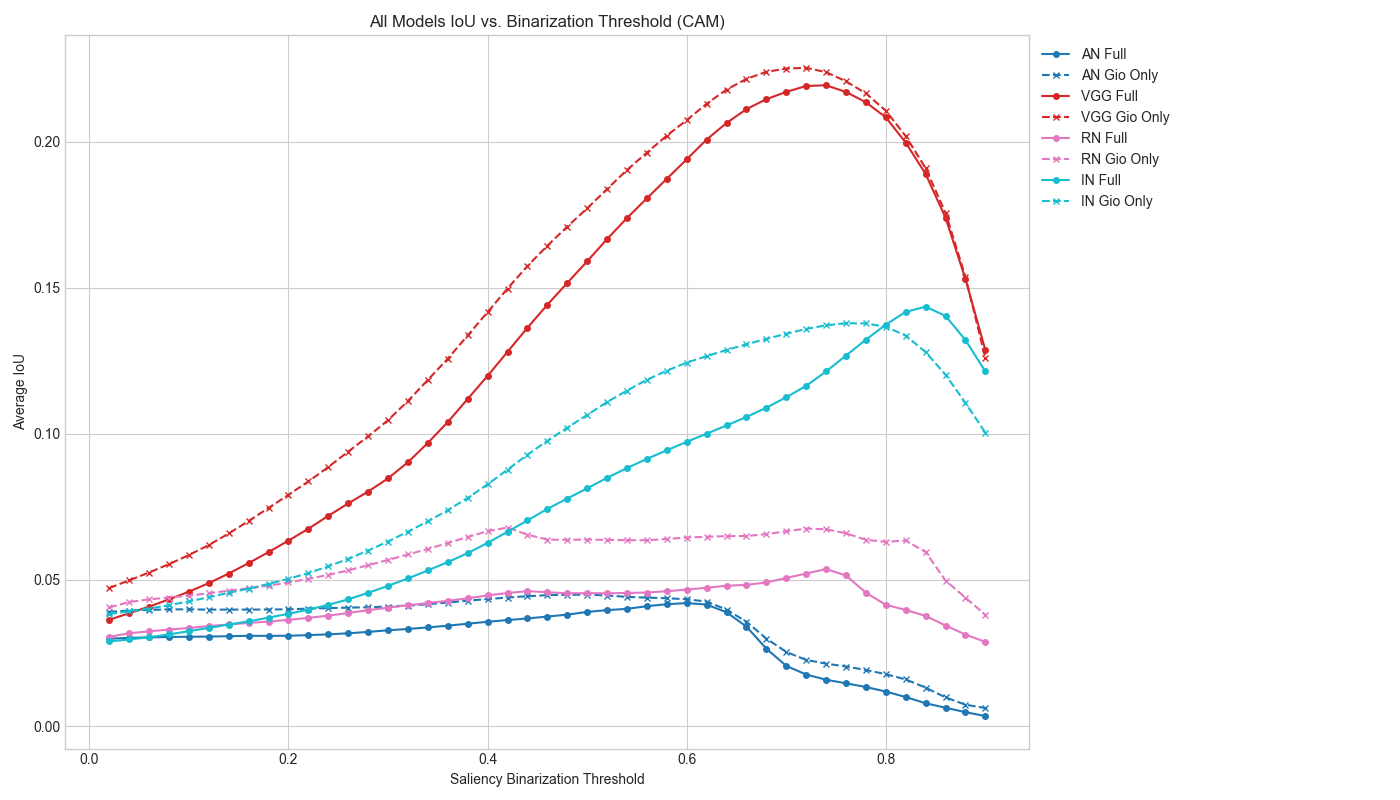
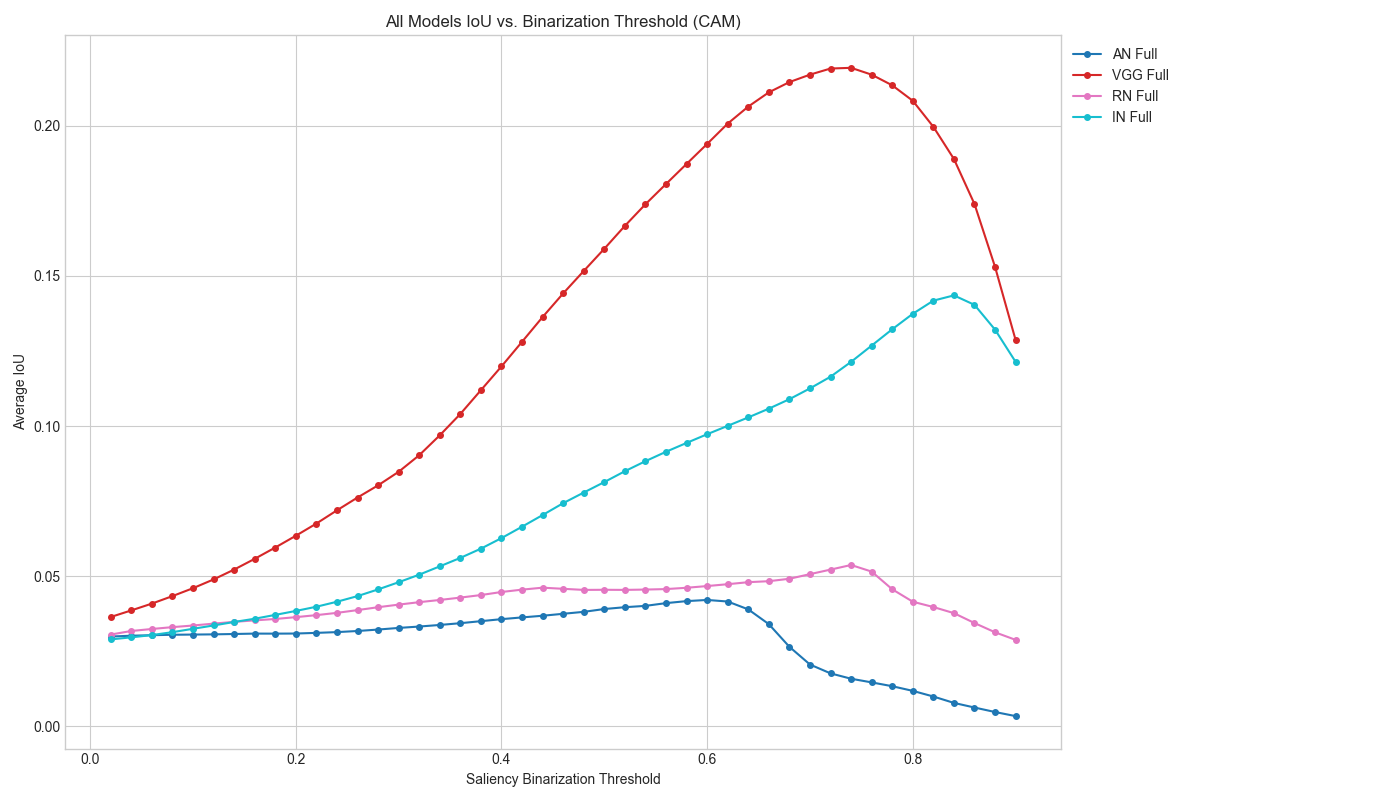
remove gio from threshold

diff --git a/medimg-saliency-benchmark/threshold.py b/medimg-saliency-benchmark/threshold.py
@@ -26,7 +26,6 @@ MODEL_CONFIGS = {
     "rn": "rn_True_True_0.05.ckpt",   
     "in": "in_True_True_0.01.ckpt"      
 }
-GIOVANNI_NAME_PATTERN = "giovanni p" 
 
 def get_expert_consensus_masks_for_specific_annotators(
     group_name,
@@ -110,21 +109,10 @@ def main():
     print(f"\nTotal non-test annotations loaded: {len(annotations_non_test_list)}")
 
     annotations_full_expert = annotations_non_test_list
-    initial_gio_annotations = [r for r in annotations_non_test_list if GIOVANNI_NAME_PATTERN in r.get('annotator_name', '').lower()]
-    if not initial_gio_annotations:
-        print(f"CRITICAL: No annotator names matched '{GIOVANNI_NAME_PATTERN}'. 'Giovanni Only' data will be empty.")
-    else:
-        print(f"Found {len(initial_gio_annotations)} raw annotations for Giovanni ('{GIOVANNI_NAME_PATTERN}').")
-    annotations_giovanni_only = initial_gio_annotations
 
     # 2. Get Expert Consensus Masks (once for all models)
     print("\nGenerating expert consensus masks (once for all models)...")
     consensus_masks_full = get_expert_consensus_masks_for_specific_annotators("Full Expert", annotations_full_expert)
-    consensus_masks_gio = {}
-    if annotations_giovanni_only:
-        consensus_masks_gio = get_expert_consensus_masks_for_specific_annotators("Giovanni Only", annotations_giovanni_only)
-    else:
-        print("  Skipping Giovanni Only consensus mask generation as no raw annotations were found.")
 
     all_evaluation_image_names = sorted(list(set(r['image_name'] for r in annotations_non_test_list)))
     print(f"\nWill attempt evaluation for up to {len(all_evaluation_image_names)} unique images from non-test annotations.")
@@ -173,9 +161,7 @@ def main():
 
         # Initialize results storage for this model
         iou_results_full_model = {t: [] for t in thresholds_arr}
-        iou_results_gio_model = {t: [] for t in thresholds_arr}
         images_contributing_full_model = set()
-        images_contributing_gio_model = set()
 
         print(f"  Starting IoU calculation for {model_key.upper()} across {len(all_evaluation_image_names)} images...")
         for image_filename in all_evaluation_image_names:
@@ -202,26 +188,17 @@ def main():
                 for t in thresholds_arr:
                     bin_map = utils.binarize_saliency_map(saliency_map_np, threshold_value=t)
                     iou_results_full_model[t].append(utils.calculate_iou(bin_map, consensus_masks_full[image_filename]))
-            
-            if image_filename in consensus_masks_gio:
-                images_contributing_gio_model.add(image_filename)
-                for t in thresholds_arr:
-                    bin_map = utils.binarize_saliency_map(saliency_map_np, threshold_value=t)
-                    iou_results_gio_model[t].append(utils.calculate_iou(bin_map, consensus_masks_gio[image_filename]))
         
         if hasattr(saliency_tool, 'remove_hook') and callable(saliency_tool.remove_hook): saliency_tool.remove_hook()
         if hasattr(saliency_tool, 'remove_hooks') and callable(saliency_tool.remove_hooks): saliency_tool.remove_hooks()
 
         # Aggregate and store results for this model
         avg_iou_full_model = [np.mean(iou_results_full_model[t]) if iou_results_full_model[t] else np.nan for t in thresholds_arr]
-        avg_iou_gio_model = [np.mean(iou_results_gio_model[t]) if iou_results_gio_model[t] else np.nan for t in thresholds_arr]
         
         n_full = len(images_contributing_full_model)
-        n_gio = len(images_contributing_gio_model)
         n_values_for_legend[(model_key, 'Full')] = n_full
-        n_values_for_legend[(model_key, 'Gio')] = n_gio
 
-        print(f"  Finished IoU for {model_key.upper()}: Full (n={n_full}), Gio (n={n_gio})")
+        print(f"  Finished IoU for {model_key.upper()}: Full (n={n_full})")
 
         if n_full > 0:
             col_name_full = f"{model_key.upper()}_Full (n={n_full})"
@@ -231,17 +208,6 @@ def main():
                 best_thresh = thresholds_arr[best_idx]
                 max_iou = avg_iou_full_model[best_idx]
                 best_threshold_details.append(f"  {model_key.upper()} Full: Best Thr={best_thresh:.4f}, Max IoU={max_iou:.4f} (n={n_full})")
-
-
-        if n_gio > 0:
-            col_name_gio = f"{model_key.upper()}_Gio (n={n_gio})"
-            all_results_data[col_name_gio] = avg_iou_gio_model
-            if not pd.Series(avg_iou_gio_model).isnull().all():
-                best_idx = pd.Series(avg_iou_gio_model).idxmax()
-                best_thresh = thresholds_arr[best_idx]
-                max_iou = avg_iou_gio_model[best_idx]
-                best_threshold_details.append(f"  {model_key.upper()} Gio: Best Thr={best_thresh:.4f}, Max IoU={max_iou:.4f} (n={n_gio})")
-
 
     # 4. Create final DataFrame and Save CSV
     results_df = pd.DataFrame(all_results_data)
@@ -267,7 +233,7 @@ def main():
     plt.figure(figsize=(14, 8)) # Wider for more lines
     
     # Define a list of distinct colors and linestyles
-    # Cycle through colors for models, use solid/dashed for Full/Gio
+    # Cycle through colors for models
     model_colors = plt.cm.get_cmap('tab10', len(MODEL_CONFIGS)) 
 
     plotted_anything = False
@@ -278,13 +244,6 @@ def main():
         if n_full > 0 and col_full in results_df.columns and not results_df[col_full].isnull().all():
             plt.plot(results_df['Saliency Binarization Threshold'], results_df[col_full], 
                      marker='o', markersize=4, linestyle='-', label=f"{model_key.upper()} Full", color=model_colors(i))
-            plotted_anything = True
-
-        n_gio = n_values_for_legend.get((model_key, 'Gio'), 0)
-        col_gio = f"{model_key.upper()}_Gio (n={n_gio})"
-        if n_gio > 0 and col_gio in results_df.columns and not results_df[col_gio].isnull().all():
-            plt.plot(results_df['Saliency Binarization Threshold'], results_df[col_gio], 
-                     marker='x', markersize=4, linestyle='--', label=f"{model_key.upper()} Gio Only", color=model_colors(i))
             plotted_anything = True
 
     plt.title(f'All Models IoU vs. Binarization Threshold ({saliency_method_upper})')
